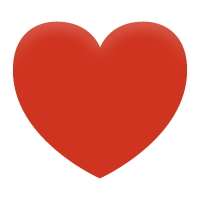
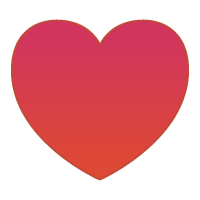
Improve heart image and animation

diff --git a/source/Heart.js b/source/Heart.js
@@ -28,9 +28,9 @@ enyo.kind({
         });
     },
     startOutAnimation: function() {
-        var x = Math.random() * 60 - 30;
-        var y = -50;
-        var rotX = 50;
+        var x = Math.random() * 30 - 15;
+        var y = -35;
+        var rotX = 40;
         var rotY = x/2;
         this.$.inner.applyStyle("-webkit-transform", "translate3d(" + x + "px, " + y + "px, 0) rotateX(" + rotX + "deg) rotateY(" + rotY +"deg)");
         this.$.inner.applyStyle("opacity", 0);
